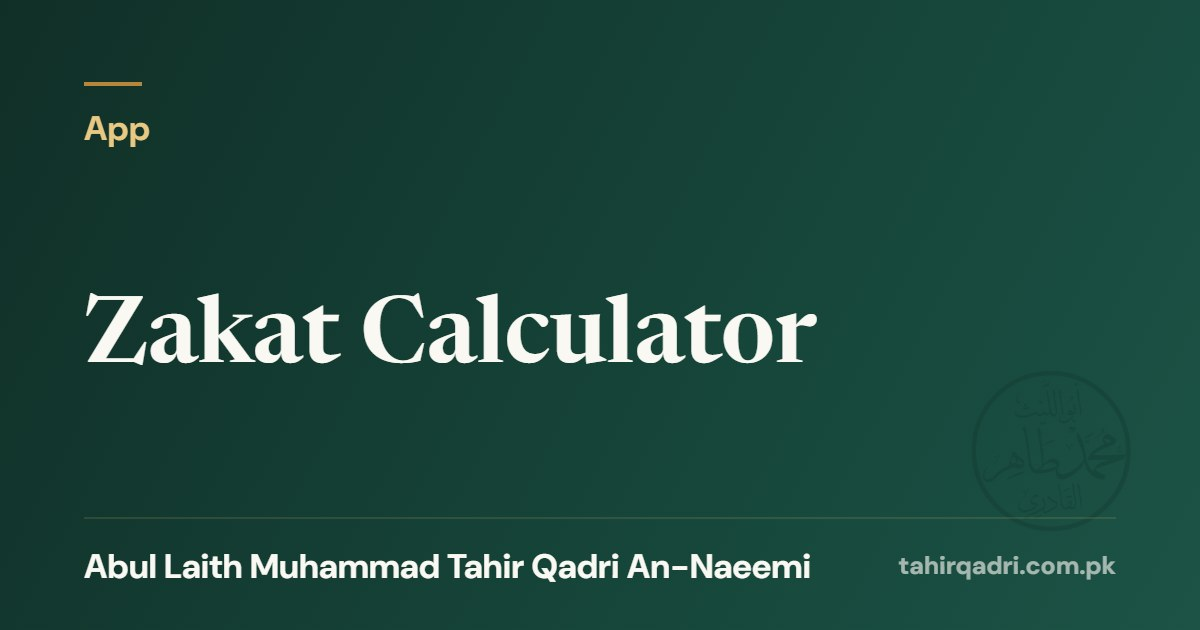
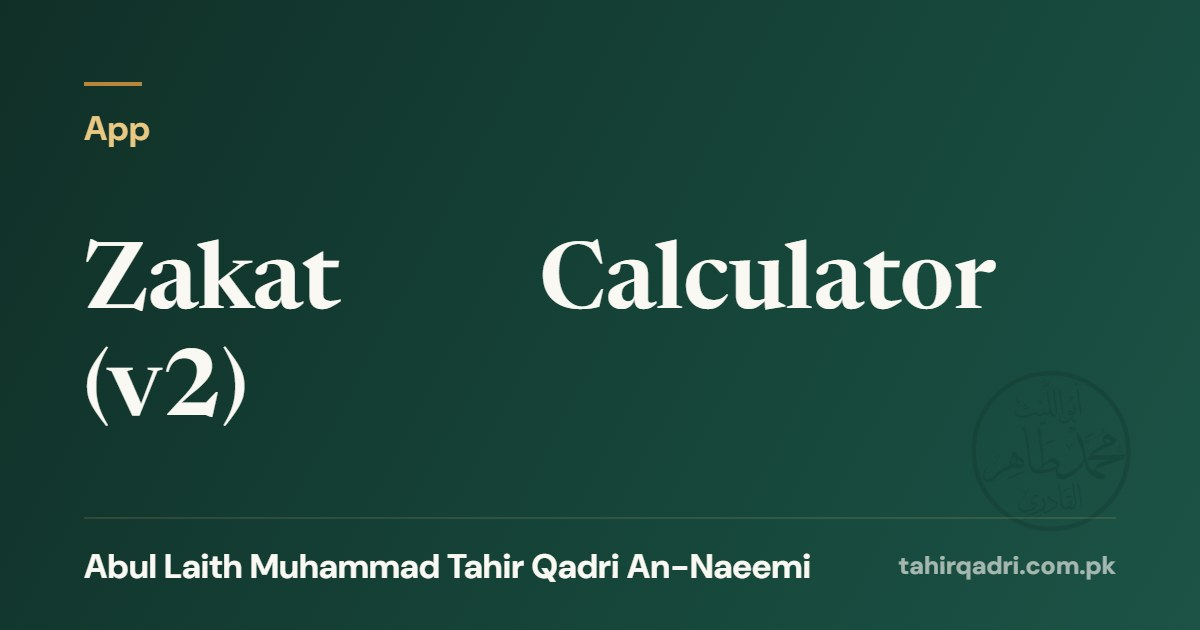
Update from the editor
content.js, index.html, apps/zakat-calculator.html, files/cards/zakat-calculator.jpg

Published by tahir.razavi@gmail.com

Changed region(s): [[0.0617, 0.3619, 0.8325, 0.6635]]

diff --git a/apps/zakat-calculator.html b/apps/zakat-calculator.html
@@ -3,13 +3,13 @@
   <head>
     <meta charset="UTF-8" />
     <meta name="viewport" content="width=device-width, initial-scale=1.0" />
-    <title>Zakat Calculator — Abul Laith Muhammad Tahir Qadri An-Naeemi</title>
+    <title>Zakat Calculator (v2) — Abul Laith Muhammad Tahir Qadri An-Naeemi</title>
     <meta name="description" content="A zakāt calculator for people in business and for those on a salary — in Urdu and English, with live silver rates for the niṣāb. It runs in the browser, on any device, with nothing to install." />
     <meta name="author" content="Abul Laith Muhammad Tahir Qadri An-Naeemi" />
     <link rel="canonical" href="https://tahirqadri.com.pk/apps/zakat-calculator.html" />
 
     <meta property="og:type" content="website" />
-    <meta property="og:title" content="Zakat Calculator" />
+    <meta property="og:title" content="Zakat Calculator (v2)" />
     <meta property="og:description" content="A zakāt calculator for people in business and for those on a salary — in Urdu and English, with live silver rates for the niṣāb. It runs in the browser, on any device, with nothing to install." />
     <meta property="og:url" content="https://tahirqadri.com.pk/apps/zakat-calculator.html" />
     <meta property="og:image" content="https://tahirqadri.com.pk/files/cards/zakat-calculator.jpg" />
@@ -21,7 +21,7 @@
     <link rel="preconnect" href="https://fonts.gstatic.com" crossorigin />
     <link href="https://fonts.googleapis.com/css2?family=Amiri:wght@400;700&family=DM+Sans:opsz,wght@9..40,400;9..40,500;9..40,700&family=Newsreader:ital,opsz,wght@0,6..72,400;0,6..72,600;1,6..72,400&family=Noto+Nastaliq+Urdu:wght@400;500;600&display=swap" rel="stylesheet" />
     <link rel="stylesheet" href="../styles.css" />
-    <script type="application/ld+json">{"@context":"https://schema.org","@type":"SoftwareApplication","name":"Zakat Calculator","inLanguage":"en","description":"A zakāt calculator for people in business and for those on a salary — in Urdu and English, with live silver rates for the niṣāb. It runs in the browser, on any device, with nothing to install.","applicationCategory":"UtilitiesApplication","operatingSystem":"Apple, Android, Windows","softwareVersion":"2","datePublished":"2026-08-21","url":"https://zakathisab.web.app/","offers":{"@type":"Offer","price":"0","priceCurrency":"PKR"},"author":{"@type":"Person","name":"Abul Laith Muhammad Tahir Qadri An-Naeemi","alternateName":"أبو اللّیث محمد طاہر القادری النّعیمی","url":"https://tahirqadri.com.pk/"}}</script>
+    <script type="application/ld+json">{"@context":"https://schema.org","@type":"SoftwareApplication","name":"Zakat Calculator (v2)","inLanguage":"en","description":"A zakāt calculator for people in business and for those on a salary — in Urdu and English, with live silver rates for the niṣāb. It runs in the browser, on any device, with nothing to install.","applicationCategory":"UtilitiesApplication","operatingSystem":"Apple, Android, Windows","softwareVersion":"2","datePublished":"2026-08-21","url":"https://zakathisab.web.app/","offers":{"@type":"Offer","price":"0","priceCurrency":"PKR"},"author":{"@type":"Person","name":"Abul Laith Muhammad Tahir Qadri An-Naeemi","alternateName":"أبو اللّیث محمد طاہر القادری النّعیمی","url":"https://tahirqadri.com.pk/"}}</script>
   </head>
 
   <body class="work-page">
@@ -39,8 +39,8 @@
       <article class="work-hero app-page">
         <a class="back-link" href="../index.html#apps"><span aria-hidden="true">←</span> Apps</a>
         <p class="section-label align-left latin" lang="en" dir="ltr">App</p>
-        <h1 class="record-title latin" lang="en" dir="ltr">Zakat Calculator</h1>
-        <p class="app-name-ur record-title urdu align-left" lang="ur" dir="rtl">زکوٰۃ کیلکولیٹر</p>
+        <h1 class="record-title latin" lang="en" dir="ltr">Zakat Calculator (v2)</h1>
+        <p class="app-name-ur record-title urdu align-left" lang="ur" dir="rtl">زکوٰۃ کیلکولیٹر ( ورژن ۲)</p>
         <p class="app-tagline">A simple zakāt calculation for people in business and for those on a salary.</p>
         <p class="app-tagline align-left own-edge urdu" lang="ur" dir="rtl">کاروباری اور تنخواہ دار افراد کے لیے زکوٰۃ کا آسان حساب بنانے والی ایپلی کیشن</p>
         <p class="app-open"><a class="button button-dark" href="https://zakathisab.web.app/" target="_blank" rel="noopener">Open the app <svg class="icon icon-inline" aria-hidden="true" focusable="false"><use href="#i-open"/></svg></a></p>

diff --git a/index.html b/index.html
@@ -167,6 +167,13 @@
         <div class="recent-rail" id="recent-rail">
           <button class="category-arrow category-arrow-start" type="button" id="recent-back" aria-label="Scroll back" tabindex="-1">‹</button>
           <div class="recent-track" id="recent-track">
+            <a class="recent-card" href="apps/zakat-calculator.html">
+              <svg class="icon recent-mark" aria-hidden="true" focusable="false"><use href="#i-app"/></svg>
+              <span class="recent-card-body reads-ltr" dir="ltr">
+                <span class="record-title latin" lang="en" dir="ltr">Zakat Calculator (v2)</span>
+                <span class="work-line"><span class="work-kind latin" lang="en" dir="ltr">App</span><span class="record-meta" dir="ltr">21 August 2026</span></span>
+              </span>
+            </a>
             <a class="recent-card" href="posts/log-barabar-kyun-nahin.html">
               <svg class="icon recent-mark" aria-hidden="true" focusable="false"><use href="#i-pen"/></svg>
               <span class="recent-card-body reads-rtl" dir="rtl">
@@ -186,13 +193,6 @@
               <span class="recent-card-body reads-rtl" dir="rtl">
                 <span class="record-title urdu" lang="ur" dir="rtl">شیئرز کی شرعی اسکریننگ پر تحفظات</span>
                 <span class="work-line"><span class="work-kind urdu" lang="ur" dir="rtl">مضمون</span><span class="record-meta" dir="ltr">8 August 2026</span></span>
-              </span>
-            </a>
-            <a class="recent-card" href="apps/zakat-calculator.html">
-              <svg class="icon recent-mark" aria-hidden="true" focusable="false"><use href="#i-app"/></svg>
-              <span class="recent-card-body reads-ltr" dir="ltr">
-                <span class="record-title latin" lang="en" dir="ltr">Zakat Calculator</span>
-                <span class="work-line"><span class="work-kind latin" lang="en" dir="ltr">App</span><span class="record-meta" dir="ltr">21 August 2026</span></span>
               </span>
             </a>
             <a class="recent-card" href="posts/books-that-arent-coming-back.html">

diff --git a/content.js b/content.js
@@ -342,10 +342,11 @@ window.siteContent = {
       works: [
         {
           id: "zakat-calculator",
-          title: "Zakat Calculator",
+          title: "Zakat Calculator (v2)",
           language: "en",
           kind: "ایپ",
           date: "2026-08-21",
+          updated: "2026-09-15",
           description: "A zakāt calculator for people in business and for those on a salary — in Urdu and English, with live silver rates for the niṣāb. It runs in the browser, on any device, with nothing to install.",
           descriptionUr: "کاروباری اور تنخواہ دار افراد کے لیے زکوٰۃ کا آسان حساب بنانے والی ایپلی کیشن — اردو اور انگریزی دونوں زبانوں میں، اور نصاب کے لیے چاندی کے تازہ نرخ خود لے لیتی ہے۔ براؤزر میں چلتی ہے، کسی بھی ڈیوائس پر — کچھ انسٹال کرنے کی ضرورت نہیں۔",
           tags: ["زکوٰۃ", "حساب", "نصاب"],
@@ -353,7 +354,7 @@ window.siteContent = {
           app: {
             url: "https://zakathisab.web.app/",
             version: "2",
-            nameUr: "زکوٰۃ کیلکولیٹر",
+            nameUr: "زکوٰۃ کیلکولیٹر ( ورژن ۲)",
             cta: "ابھی وزٹ کریں اور اپنی زکوٰۃ کا درست حساب حاصل کریں۔",
             presentedBy: "جمعیتِ اشاعتِ اہلِ سنت (پاکستان) کراچی",
             preparedBy: "ابواللیث محمد طاہر قادری",
